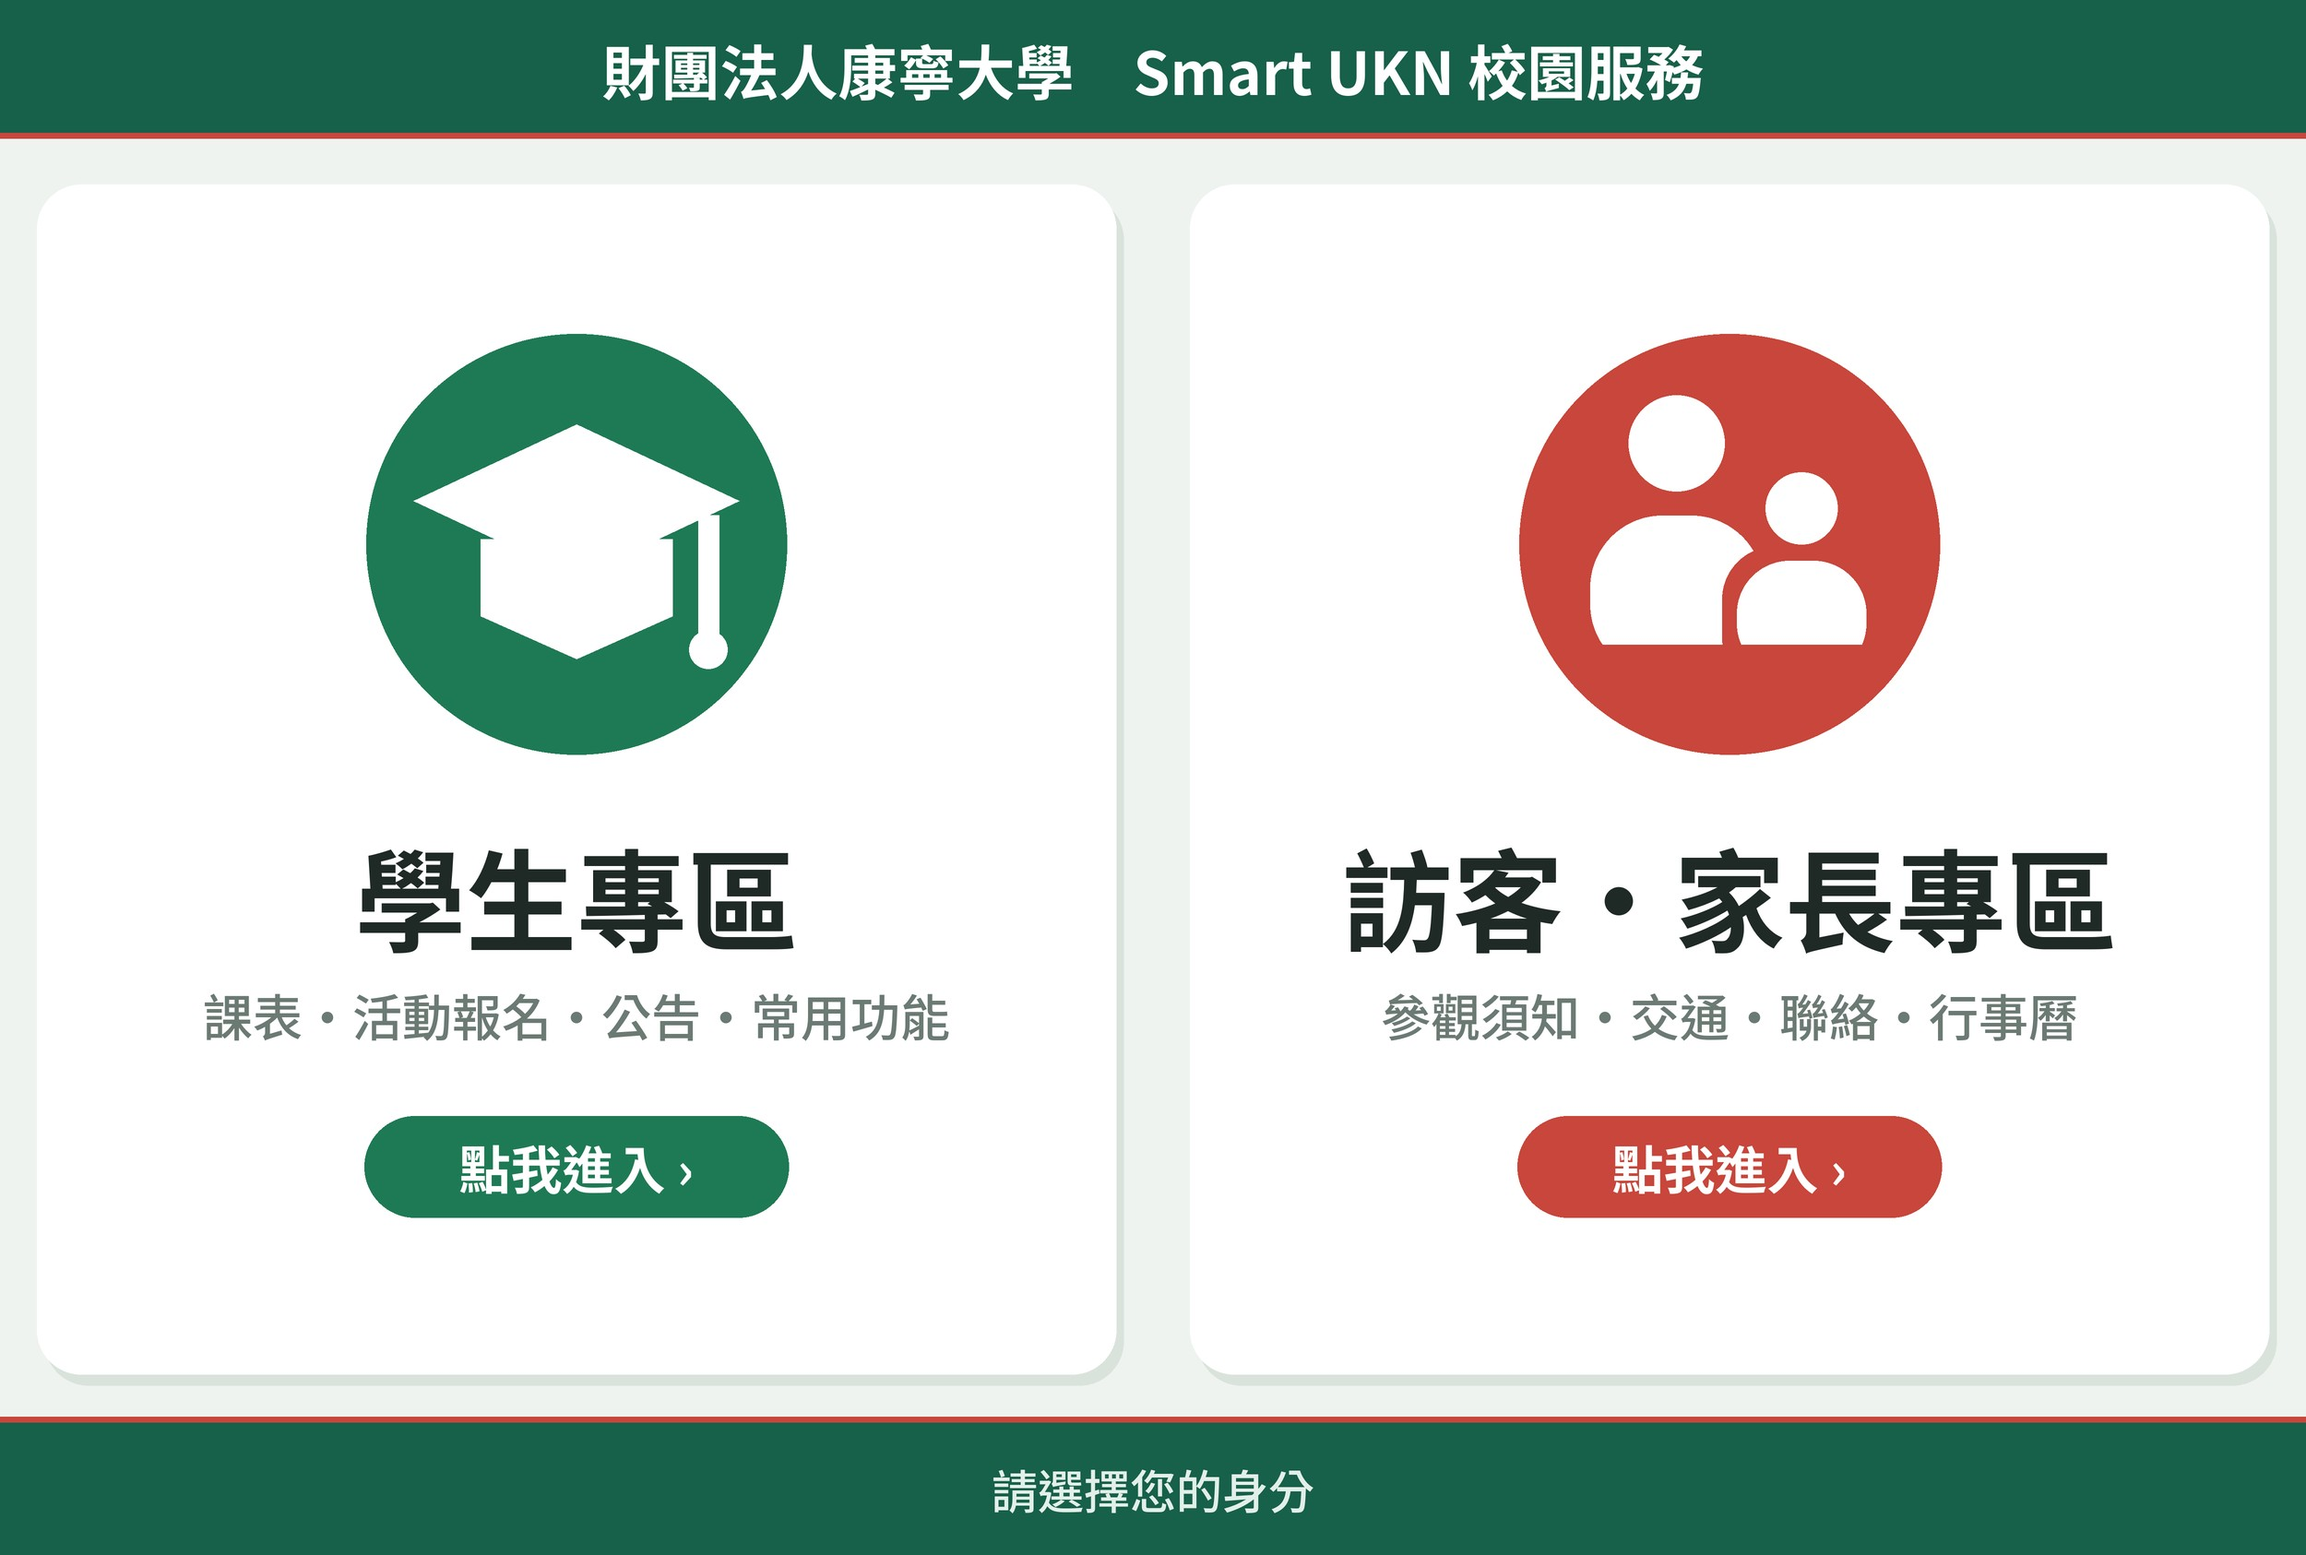
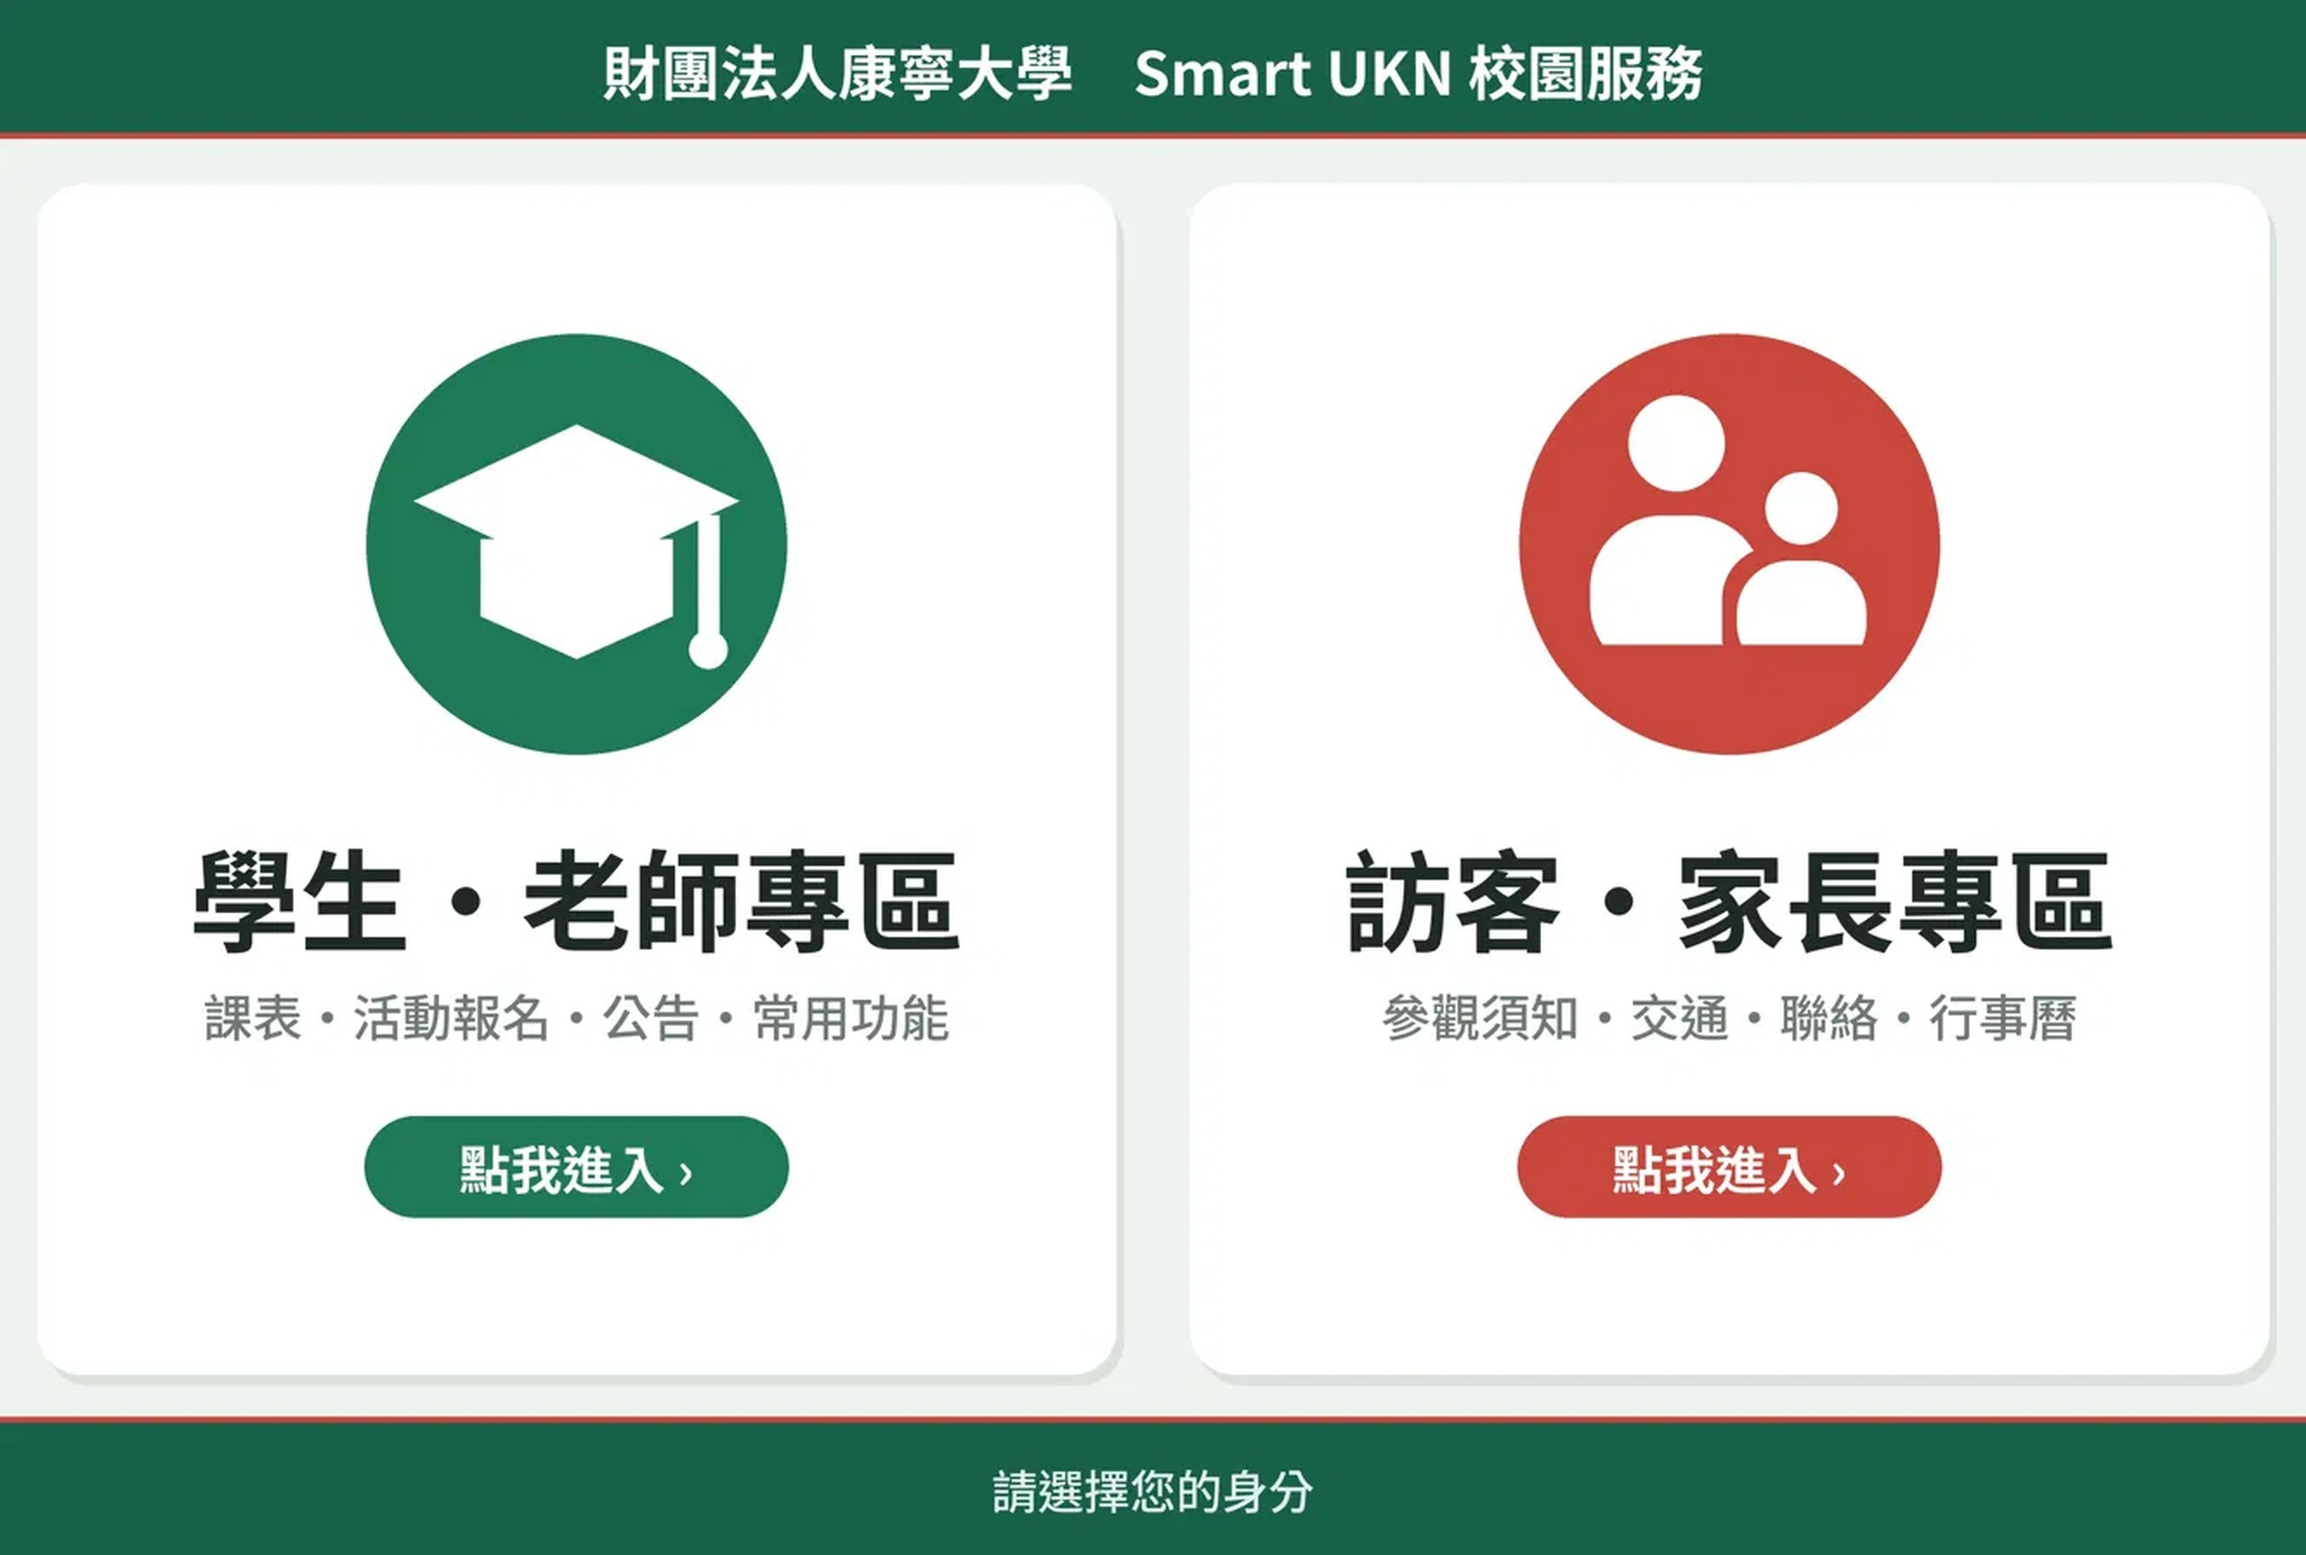
LINE 圖文選單：更新主選單/學生專區文案為「學生・老師專區」並套用上線
圖片收到的是 1329x896 的縮圖，已等比放大到 2500x1686 存回 repo；
已用 tools/setup_richmenu.py --yes 套用到正式 Channel，目前線上為此版本。

diff --git a/tools/setup_richmenu.py b/tools/setup_richmenu.py
@@ -34,6 +34,7 @@ if hasattr(sys.stdout, "reconfigure"):
     sys.stdout.reconfigure(encoding="utf-8")  # Windows 預設主控台編碼 (cp950) 印不出中文/全形符號
 
 API = "https://api.line.me"
+API_DATA = "https://api-data.line.me"  # 上傳/下載二進位內容 (圖文選單圖片等) 用這個主機，不是 api.line.me
 ASSETS_DIR = os.path.join(os.path.dirname(os.path.dirname(os.path.abspath(__file__))), "line_assets")
 
 W, H = 2500, 1686
@@ -76,14 +77,14 @@ def build_menus():
         "chatBarText": "選單", "alias": "ukn-main",
         "image": os.path.join(ASSETS_DIR, "richmenu-main.jpg"),
         "areas": [
-            area(0, 0, 1250, H, switch_action("ukn-student", "學生專區")),
+            area(0, 0, 1250, H, switch_action("ukn-student", "學生・老師專區")),
             area(1250, 0, 1250, H, switch_action("ukn-visitor", "訪客・家長專區")),
         ],
     }
 
     student = {
         "size": {"width": W, "height": H}, "selected": False, "name": "ukn-student",
-        "chatBarText": "學生專區", "alias": "ukn-student",
+        "chatBarText": "學生・老師專區", "alias": "ukn-student",
         "image": os.path.join(ASSETS_DIR, "richmenu-student.jpg"),
         "areas": [
             area(**BACK_BUTTON, action=switch_action("ukn-main", "回主選單")),
@@ -113,7 +114,7 @@ def build_menus():
     return [main, student, visitor]
 
 
-def _request(token, method, path, body=None, data=None, content_type="application/json"):
+def _request(token, method, path, body=None, data=None, content_type="application/json", base=API):
     headers = {"Authorization": f"Bearer {token}"}
     if data is not None:
         headers["Content-Type"] = content_type
@@ -121,7 +122,7 @@ def _request(token, method, path, body=None, data=None, content_type="applicatio
     else:
         headers["Content-Type"] = "application/json"
         payload = json.dumps(body, ensure_ascii=False).encode("utf-8") if body is not None else None
-    req = urllib.request.Request(API + path, data=payload, headers=headers, method=method)
+    req = urllib.request.Request(base + path, data=payload, headers=headers, method=method)
     try:
         with urllib.request.urlopen(req, timeout=20) as resp:
             raw = resp.read()
@@ -150,7 +151,7 @@ def create_menu(token, spec):
     with open(spec["image"], "rb") as f:
         image_bytes = f.read()
     _request(token, "POST", f"/v2/bot/richmenu/{rich_menu_id}/content",
-             data=image_bytes, content_type=content_type)
+             data=image_bytes, content_type=content_type, base=API_DATA)
     return rich_menu_id
 
 
